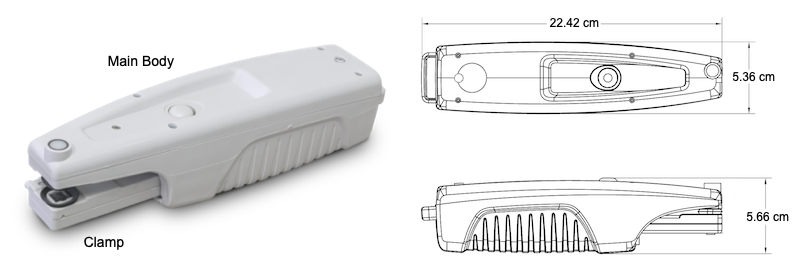
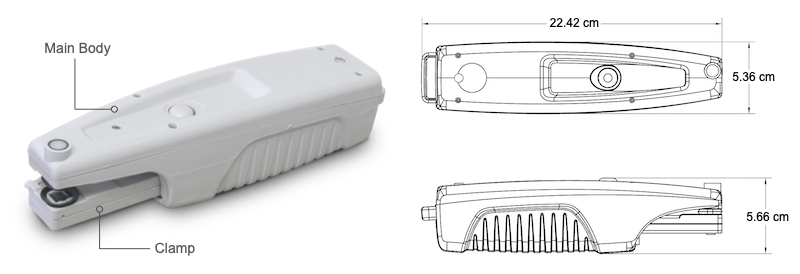
Update images and fix tables

Changed region(s): [[0.0625, 0.146, 0.2188, 0.2628], [0.0938, 0.8467, 0.25, 0.9343], [0.0938, 0.3796, 0.1562, 0.4088]]

diff --git a/docs/instruments/multispeq-v2.0.md b/docs/instruments/multispeq-v2.0.md
@@ -49,12 +49,12 @@ The two vents allow air to be exchanged inside the Instrument. There are two sen
 
 The Action Indicator has the following:
 
-| Indicator | Function |
-| --------- | -------- |
-| ![Instrument idle and fully charged](./images/indicator-idle-full.svg) | Instrument is on, and fully charged. The indicator is flashing every 5s |
+| Indicator                                                                           | Function                                                                      |
+| ----------------------------------------------------------------------------------- | ----------------------------------------------------------------------------- |
+| ![Instrument idle and fully charged](./images/indicator-idle-full.svg)              | Instrument is on, and fully charged. The indicator is flashing every 5s       |
 | ![Instrument idle and battery not fully charged](./images/indicator-idle-empty.svg) | Instrument is on, and battery is emptying. The indicator is flashing every 5s |
-| ![Instrument clamp open](./images/indicator-clamp-open.svg) | Instrument clamp open. The indicator is flashing rapidly. |
-| ![Instrument busy](./images/indicator-busy.svg) | Instrument is busy (e.g. Measurement). The indicator is constantly on. |
+| ![Instrument clamp open](./images/indicator-clamp-open.svg)                         | Instrument clamp open. The indicator is flashing rapidly.                     |
+| ![Instrument busy](./images/indicator-busy.svg)                                     | Instrument is busy (e.g. Measurement). The indicator is constantly on.        |
 
 ### Power/Reset Button
 
@@ -84,14 +84,14 @@ The little LED in the back indicates, when the Instrument is charging. When the 
 
 ![MultispeQ v2.0 measurements](./images/multispeq-v2.0-measurements.png)
 
-| Body | Measurements |
-|:----|:----|
-| Size | 224.2 mm x 53.6 mm x 56.6 mm (l, w, h) |
-| Total Weight | 340 g (incl. battery)|
-| Light Guide Surface | 8 mm x 8 mm (64mm²) |
-| Leaf Clamp Opening | 13 mm |
-| Safety | Ring for leash |
-| Updates | Firmware updates through Applications |
+| Body                | Measurements                           |
+| :------------------ | :------------------------------------- |
+| Size                | 224.2 mm x 53.6 mm x 56.6 mm (l, w, h) |
+| Total Weight        | 340 g (incl. battery)                  |
+| Light Guide Surface | 8 mm x 8 mm (64 mm²)                   |
+| Leaf Clamp Opening  | 13 mm                                  |
+| Safety              | Ring for leash                         |
+| Updates             | Firmware updates through Applications  |
 
 ### Lights
 
@@ -99,23 +99,23 @@ There are sets of five LEDs each on the **main body** and the **leaf clamp**.
 
 #### Main Body
 
-| # | Emission Peak | Model | Specifications |
-|:---:|:---:|-----|:---:|
-| 1 | 530nm | LED (green), Lumileds, LXZ1-PM01 | [view][LXZ1] |
-| 2 | 655nm | LED (red), Lumileds, LXZ1-PA01 |[view][LXZ1] |
-| 3 | 590nm | LED (amber), Lumileds, LXZ1-PL01 |[view][LXZ1] |
-| 4 | 448nm | LED (blue), Lumileds, LXZ1-PR01 |[view][LXZ1] |
-| 5 | 950nm | LED (NIR), OSRAM, SFH 4441 | [view][OSRAM SFH 4441] |
+|   #   | Emission Peak | Model                            |     Specifications     |
+| :---: | :-----------: | -------------------------------- | :--------------------: |
+|   1   |     530nm     | LED (green), Lumileds, LXZ1-PM01 |      [view][LXZ1]      |
+|   2   |     655nm     | LED (red), Lumileds, LXZ1-PA01   |      [view][LXZ1]      |
+|   3   |     590nm     | LED (amber), Lumileds, LXZ1-PL01 |      [view][LXZ1]      |
+|   4   |     448nm     | LED (blue), Lumileds, LXZ1-PR01  |      [view][LXZ1]      |
+|   5   |     950nm     | LED (NIR), OSRAM, SFH 4441       | [view][OSRAM SFH 4441] |
 
 #### Leaf Clamp
 
-| # | Emission Peak | Model | Specifications |
-|:---:|:---:|-----|:---:|
-| 6 | 950nm | LED (NIR), OSRAM, SFH 4441 | [view][OSRAM SFH 4441] |
-| 7 | 655nm | LED (red), Lumileds, LXZ1-PA01 |[view][LXZ1] |
-| 8 | 850nm | LED (NIR), OSRAM, SFH 4451 | [view][OSRAM SFH 4451] |
-| 9 | 730nm | LED (far red), Everlight, ELSH-Q61F1-0LPNM-JF3F8 | [view][ELSH-Q61F1-0LPNM-JF3F8] |
-| 10 | 820nm | LED (NIR), OSRAM SFH 4786S | [view][SFH 4786S] |
+|   #   | Emission Peak | Model                                            |         Specifications         |
+| :---: | :-----------: | ------------------------------------------------ | :----------------------------: |
+|   6   |     950nm     | LED (NIR), OSRAM, SFH 4441                       |     [view][OSRAM SFH 4441]     |
+|   7   |     655nm     | LED (red), Lumileds, LXZ1-PA01                   |          [view][LXZ1]          |
+|   8   |     850nm     | LED (NIR), OSRAM, SFH 4451                       |     [view][OSRAM SFH 4451]     |
+|   9   |     730nm     | LED (far red), Everlight, ELSH-Q61F1-0LPNM-JF3F8 | [view][ELSH-Q61F1-0LPNM-JF3F8] |
+|  10   |     820nm     | LED (NIR), OSRAM SFH 4786S                       |       [view][SFH 4786S]        |
 
 #### Emission Spectra for LEDs
 
@@ -125,10 +125,10 @@ There are sets of five LEDs each on the **main body** and the **leaf clamp**.
 
 The MultispeQ v2.0 comes with two detectors. One covering the near infrared on the **main body**, the other covering the visual range on the **leaf clamp**.
 
-| # | Detection Range | Model | Specifications |
-|:---:|:---:|-----|:---:|
-| 1 | 700nm - 1150nm | Hamamatsu, S6775-01 (main body) | [view][S6775-01] |
-| 3\* | 400nm - 700nm | Hamamatsu, S6775 (leaf clamp) | [view][S6775] |
+|   #   | Detection Range | Model                           |  Specifications  |
+| :---: | :-------------: | ------------------------------- | :--------------: |
+|   1   | 700nm - 1150nm  | Hamamatsu, S6775-01 (main body) | [view][S6775-01] |
+|  3\*  |  400nm - 700nm  | Hamamatsu, S6775 (leaf clamp)   |  [view][S6775]   |
 
 ::: warning *Note
 The detector 3 is covered with a BG-18 bandpass filter with a center wavelength around 493 nm. If you are using the detector to detect signals on the edges of the detection range, expect the signal strength to be low.
@@ -138,40 +138,40 @@ The detector 3 is covered with a BG-18 bandpass filter with a center wavelength 
 
 The MultispeQ v2.0 has a set of sensors to measure the environmental parameters.
 
-| Sensor | Model | Specifications |
-|-----|-----|:---:|
-| Ambient Temperature, Humidity, Pressure (2x) | BOSCH, BME280 | [view][BME280] |
-| Contactless Temperature | Melexis, MLX90615SSG-DAG-000-TU | [view][MLX90615] |
-| Accelerometer | Freescale, MMA8653FCR1 | [view][MMA8653FCR1] |
-| Magnetometer | Freescale, MAG3110FCR1 | [view][MAG3110FCR1] |
-| Hall Effect Sensor | TT Electronics, OHS3150U | [view][OHS3150U] |
-| PAR light sensor | AMS-TAOS USA, TCS34715FN + 700nm low pass filter | [view][TCS34715FN] |
+| Sensor                                       | Model                                            |   Specifications    |
+| -------------------------------------------- | ------------------------------------------------ | :-----------------: |
+| Ambient Temperature, Humidity, Pressure (2x) | BOSCH, BME280                                    |   [view][BME280]    |
+| Contactless Temperature                      | Melexis, MLX90615SSG-DAG-000-TU                  |  [view][MLX90615]   |
+| Accelerometer                                | Freescale, MMA8653FCR1                           | [view][MMA8653FCR1] |
+| Magnetometer                                 | Freescale, MAG3110FCR1                           | [view][MAG3110FCR1] |
+| Hall Effect Sensor                           | TT Electronics, OHS3150U                         |  [view][OHS3150U]   |
+| PAR light sensor                             | AMS-TAOS USA, TCS34715FN + 700nm low pass filter | [view][TCS34715FN]  |
 
 ### Filters
 
 The MultispeQ v2.0 has two filters, a Band Pass filter covering the visible light detector (#3) and a Low Pass filter used in the PAR sensor.
 
-| Filter | Model | Specifications |
-|-----|-----|:---:|
-| Band Pass | Schott, BG-18 1mm thickness  | [view][BG-18] |
-| Low Pass | UQC Optics, Hot Mirror HM-07 | [view][HMC-5051] |
+| Filter    | Model                        |  Specifications  |
+| --------- | ---------------------------- | :--------------: |
+| Band Pass | Schott, BG-18 1mm thickness  |  [view][BG-18]   |
+| Low Pass  | UQC Optics, Hot Mirror HM-07 | [view][HMC-5051] |
 
 ### Indicator Lights
 
 The MultispeQ v2.0 has now two indicator lights. One to indicate if the device is charging which is located next to the micro-USB port. The second one is located on top to indicate progress or required actions.
 
-| LED | Model | Specifications |
-|-----|-----|:---:|
-| Charging Indicator |  | --- |
+| LED                       | Model                  | Specifications |
+| ------------------------- | ---------------------- | :------------: |
+| Charging Indicator        |                        |      ---       |
 | Progress/Action Indicator | NeoPixel (RGB), SK6812 | [view][SK6812] |
 
 ### Battery
 
 The MultispeQ v2.0 has a Li-ion battery which can be charged through the micro USB port.
 
-| Battery | Model | Specifications |
-|-----|-----|:---:|
-| Main | Soshine Li-ion 26650 Protected Battery: 5500mAh 3.7V | [view][26650P-3.7-5500] |
+| Battery | Model                                                |     Specifications      |
+| ------- | ---------------------------------------------------- | :---------------------: |
+| Main    | Soshine Li-ion 26650 Protected Battery: 5500mAh 3.7V | [view][26650P-3.7-5500] |
 
 ## References
 

diff --git a/docs/instruments/multispeq-v1.0.md b/docs/instruments/multispeq-v1.0.md
@@ -8,14 +8,14 @@ The MultispeQ v1.0 has been discontinued. Please see the improved version [Multi
 
 ![MultispeQ v1.0 measurements](./images/multispeq-v1.0-measurements.png)
 
-| Body | Measurements |
-|:----|:----|
-| Size | 224.2 mm x 53.6 mm x 56.6 mm (l, w, h) |
-| Total Weight | 340 g (incl. battery)|
-| Light Guide Surface | 8 mm x 8 mm (64mm²) |
-| Leaf Clamp Opening | 13 mm |
-| Safety | Ring for leash |
-| Updates | Firmware updates through Applications |
+| Body                | Measurements                           |
+| :------------------ | :------------------------------------- |
+| Size                | 224.2 mm x 53.6 mm x 56.6 mm (l, w, h) |
+| Total Weight        | 340 g (incl. battery)                  |
+| Light Guide Surface | 8 mm x 8 mm (64 mm²)                   |
+| Leaf Clamp Opening  | 13 mm                                  |
+| Safety              | Ring for leash                         |
+| Updates             | Firmware updates through Applications  |
 
 ### Lights
 
@@ -23,23 +23,23 @@ There are sets of five LEDs each on the **main body** and the **leaf clamp**.
 
 #### Main Body
 
-| # | Emission Peak | Model | Specifications |
-|:---:|:---:|-----|:---:|
-| 1 | 530nm | LED (green), Lumileds, LXZ1-PM01 | [view][LXZ1] |
-| 2 | 655nm | LED (red), Lumileds, LXZ1-PA01 |[view][LXZ1] |
-| 3 | 590nm | LED (amber), Lumileds, LXZ1-PL01 |[view][LXZ1] |
-| 4 | 448nm | LED (blue), Lumileds, LXZ1-PR01 |[view][LXZ1] |
-| 5 | 950nm | LED (NIR), OSRAM, SFH 4441 | [view][OSRAM SFH 4441] |
+|   #   | Emission Peak | Model                            |     Specifications     |
+| :---: | :-----------: | -------------------------------- | :--------------------: |
+|   1   |     530nm     | LED (green), Lumileds, LXZ1-PM01 |      [view][LXZ1]      |
+|   2   |     655nm     | LED (red), Lumileds, LXZ1-PA01   |      [view][LXZ1]      |
+|   3   |     590nm     | LED (amber), Lumileds, LXZ1-PL01 |      [view][LXZ1]      |
+|   4   |     448nm     | LED (blue), Lumileds, LXZ1-PR01  |      [view][LXZ1]      |
+|   5   |     950nm     | LED (NIR), OSRAM, SFH 4441       | [view][OSRAM SFH 4441] |
 
 #### Leaf Clamp
 
-| # | Emission Peak | Model | Specifications |
-|:---:|:---:|-----|:---:|
-| 6 | 950nm | LED (NIR), OSRAM, SFH 4441 | [view][OSRAM SFH 4441] |
-| 7 | 655nm | LED (red), Lumileds, LXZ1-PA01 |[view][LXZ1] |
-| 8 | 850nm | LED (NIR), OSRAM, SFH 4451 | [view][OSRAM SFH 4451] |
-| 9 | 730nm | LED (far red), Everlight, ELSH-Q61F1-0LPNM-JF3F8 | [view][ELSH-Q61F1-0LPNM-JF3F8] |
-| 10 | 880nm | LED (NIR), Kingbright, APTD3216SF4C | [view][APTD3216SF4C] |
+|   #   | Emission Peak | Model                                            |         Specifications         |
+| :---: | :-----------: | ------------------------------------------------ | :----------------------------: |
+|   6   |     950nm     | LED (NIR), OSRAM, SFH 4441                       |     [view][OSRAM SFH 4441]     |
+|   7   |     655nm     | LED (red), Lumileds, LXZ1-PA01                   |          [view][LXZ1]          |
+|   8   |     850nm     | LED (NIR), OSRAM, SFH 4451                       |     [view][OSRAM SFH 4451]     |
+|   9   |     730nm     | LED (far red), Everlight, ELSH-Q61F1-0LPNM-JF3F8 | [view][ELSH-Q61F1-0LPNM-JF3F8] |
+|  10   |     880nm     | LED (NIR), Kingbright, APTD3216SF4C              |      [view][APTD3216SF4C]      |
 
 #### Emission Spectra for LEDs
 
@@ -49,10 +49,10 @@ There are sets of five LEDs each on the **main body** and the **leaf clamp**.
 
 The MultispeQ v1.0 comes with two detectors. One covering the near infrared on the **main body**, the other covering the visual range on the **leaf clamp**.
 
-| # | Detection Range | Model | Specifications |
-|:---:|:---:|-----|:---:|
-| 1 | 700nm - 1150nm | Hamamatsu, S6775-01 (main body) | [view][S6775-01] |
-| 3\* | 400nm - 700nm | Hamamatsu, S6775 (leaf clamp) | [view][S6775] |
+|   #   | Detection Range | Model                           |  Specifications  |
+| :---: | :-------------: | ------------------------------- | :--------------: |
+|   1   | 700nm - 1150nm  | Hamamatsu, S6775-01 (main body) | [view][S6775-01] |
+|  3\*  |  400nm - 700nm  | Hamamatsu, S6775 (leaf clamp)   |  [view][S6775]   |
 
 ::: warning *Note
 The detector 3 is covered with a BG-18 bandpass filter with a center wavelength around 493 nm. If you are using the detector to detect signals on the edges of the detection range, expect the signal strength to be low.
@@ -62,31 +62,31 @@ The detector 3 is covered with a BG-18 bandpass filter with a center wavelength 
 
 The MultispeQ v1.0 has a set of sensors to measure the environmental parameters.
 
-| Sensor | Model | Specifications |
-|-----|-----|:---:|
-| Ambient Temperature, Humidity, Pressure (2x) | BOSCH, BME280 | [view][BME280] |
-| Contactless Temperature | Melexis, MLX90615SSG-DAG-000-TU | [view][MLX90615] |
-| Accelerometer | Freescale, MMA8653FCR1 | [view][MMA8653FCR1] |
-| Magnetometer | Freescale, MAG3110FCR1 | [view][MAG3110FCR1] |
-| Hall Effect Sensor | TT Electronics, OHS3150U | [view][OHS3150U] |
-| PAR light sensor | AMS-TAOS USA, TCS34715FN + 700nm low pass filter | [view][TCS34715FN] |
+| Sensor                                       | Model                                            |   Specifications    |
+| -------------------------------------------- | ------------------------------------------------ | :-----------------: |
+| Ambient Temperature, Humidity, Pressure (2x) | BOSCH, BME280                                    |   [view][BME280]    |
+| Contactless Temperature                      | Melexis, MLX90615SSG-DAG-000-TU                  |  [view][MLX90615]   |
+| Accelerometer                                | Freescale, MMA8653FCR1                           | [view][MMA8653FCR1] |
+| Magnetometer                                 | Freescale, MAG3110FCR1                           | [view][MAG3110FCR1] |
+| Hall Effect Sensor                           | TT Electronics, OHS3150U                         |  [view][OHS3150U]   |
+| PAR light sensor                             | AMS-TAOS USA, TCS34715FN + 700nm low pass filter | [view][TCS34715FN]  |
 
 ### Filters
 
 The MultispeQ v1.0 has two filters, a Band Pass filter covering the visible light detector (#3) and a Low Pass filter used in the PAR sensor.
 
-| Filter | Model | Specifications |
-|-----|-----|:---:|
-| Band Pass | Schott, BG-18 1mm thickness  | [view][BG-18] |
-| Low Pass | UQC Optics, Hot Mirror HM-07 | [view][HMC-5051] |
+| Filter    | Model                        |  Specifications  |
+| --------- | ---------------------------- | :--------------: |
+| Band Pass | Schott, BG-18 1mm thickness  |  [view][BG-18]   |
+| Low Pass  | UQC Optics, Hot Mirror HM-07 | [view][HMC-5051] |
 
 ### Battery
 
 The MultispeQ v1.0 has a Li-ion battery which can be charged through the micro USB port.
 
-| Battery | Model | Specifications |
-|-----|-----|:---:|
-| Main | Soshine Li-ion 26650 Protected Battery: 5500mAh 3.7V | [view][26650P-3.7-5500] |
+| Battery | Model                                                |     Specifications      |
+| ------- | ---------------------------------------------------- | :---------------------: |
+| Main    | Soshine Li-ion 26650 Protected Battery: 5500mAh 3.7V | [view][26650P-3.7-5500] |
 
 ## References
 
